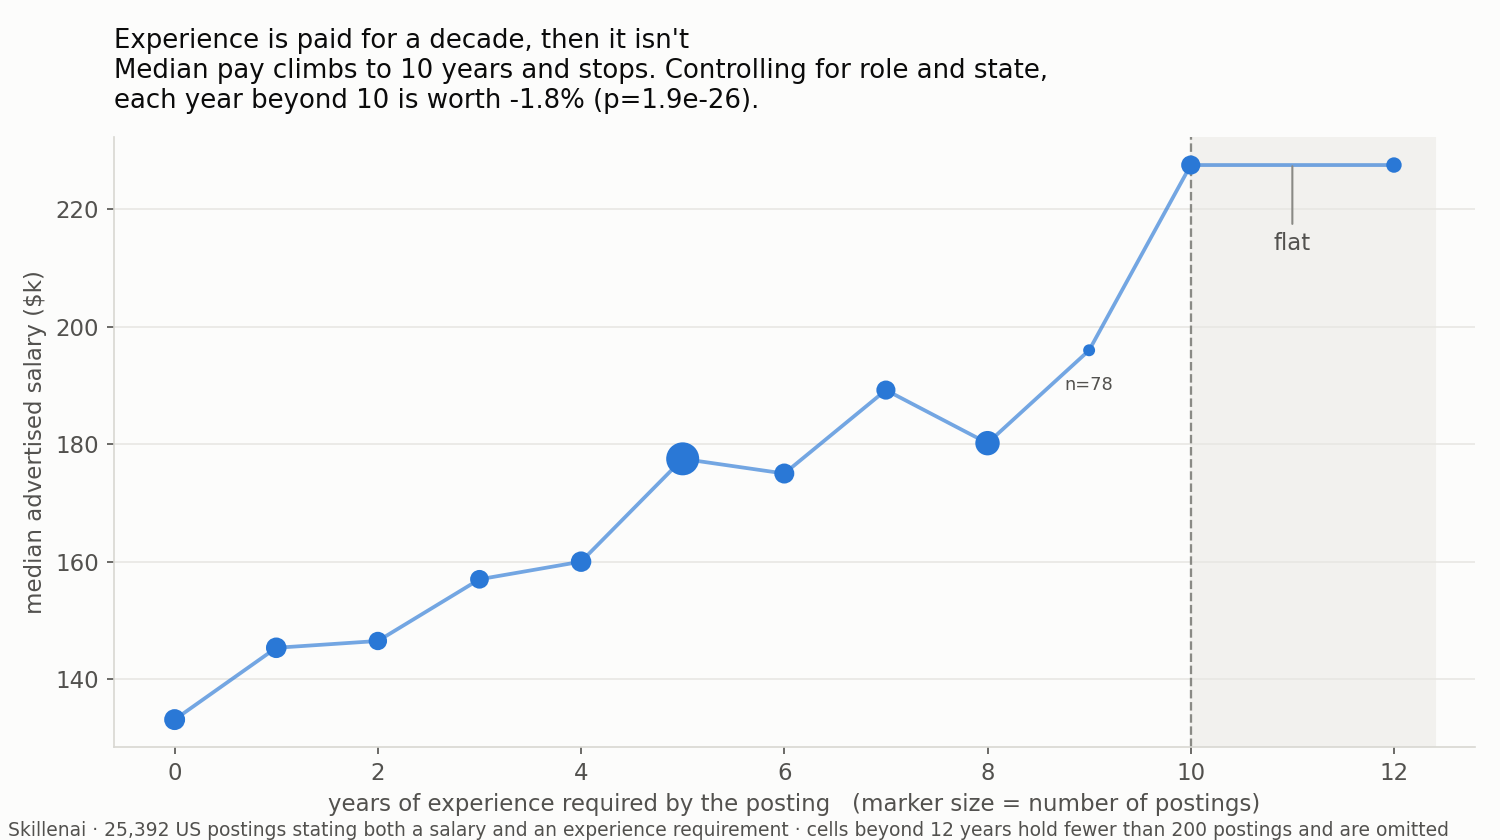
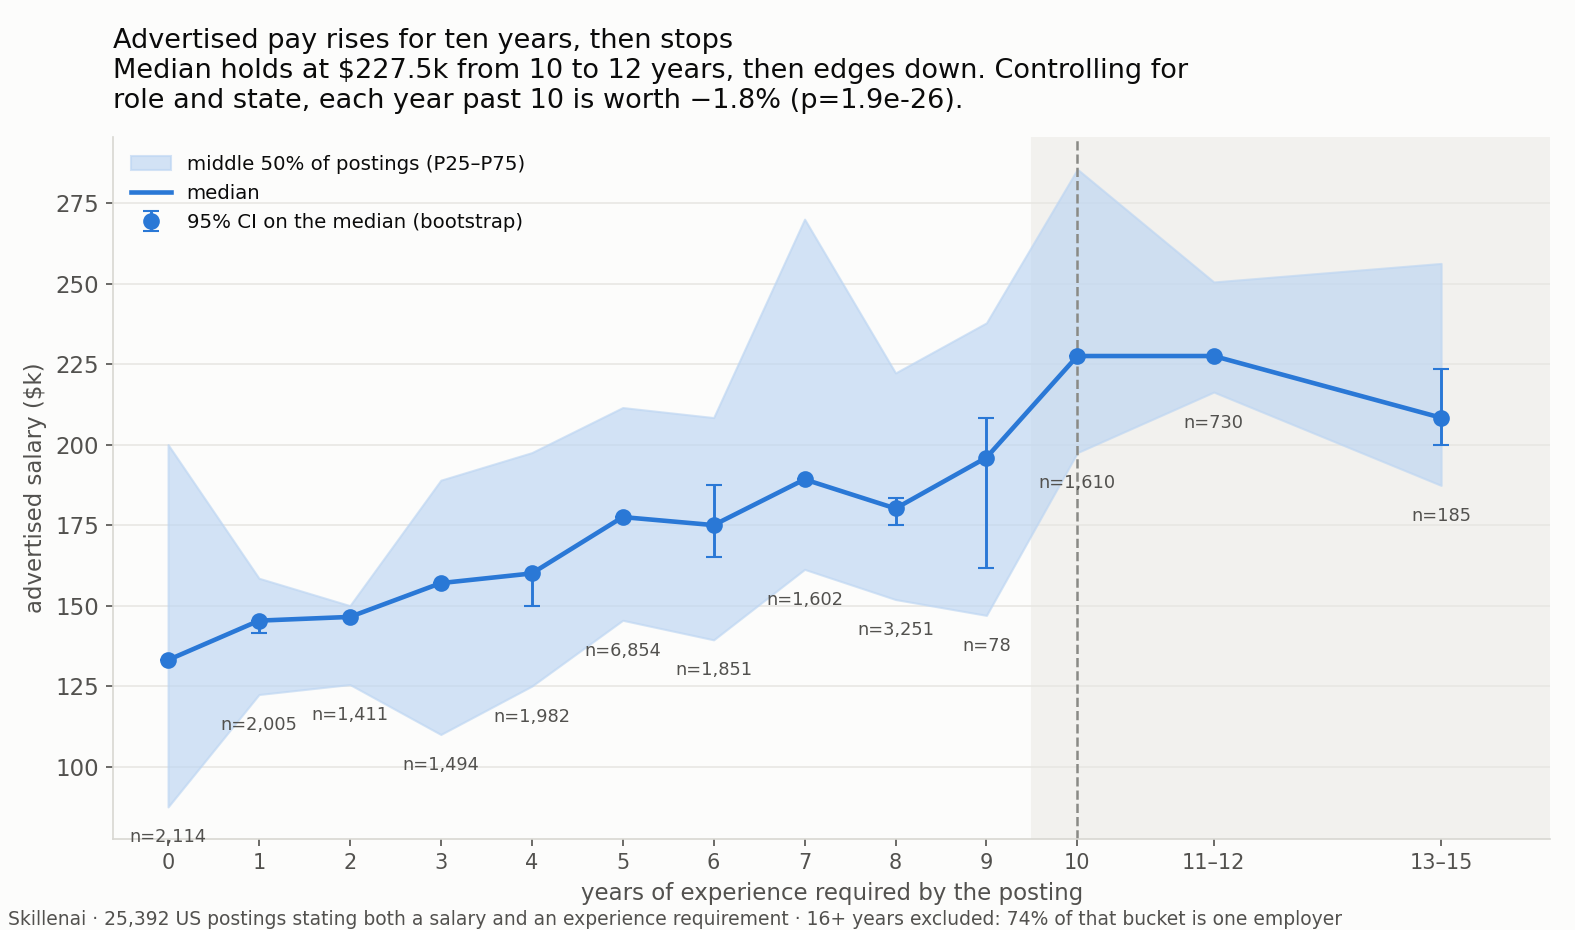
Salary chart: quartile bands, bootstrap CIs, bucketed tail
Shows the flat region past 10 years rather than asserting it. Excludes the
16+ bucket, which is 74% a single employer.

diff --git a/role-blur-skill-churn/README.md b/role-blur-skill-churn/README.md
@@ -85,9 +85,11 @@ Rank is the right unit here. It is computed within each period, so the shorter d
 
 ## 4. Experience is paid for a decade
 
-![Line chart of median advertised salary against required years of experience, rising steadily to ten years and then flat, with marker size showing sample size](04_pay_plateau.png)
+![Chart of advertised salary against required years of experience showing median, 95% bootstrap confidence intervals and the P25-P75 band, rising to ten years then flat](04_pay_plateau.png)
 
-Median advertised pay climbs to 10 years of required experience and stops. With role and state fixed effects, each year up to 10 is worth **+5.27%** (p≈0); each year beyond is worth **−1.75%** (p=1.9e-26). Under a conservative specification that also controls seniority — arguably over-controlling, since seniority is *how* experience gets paid — it is +2.40% then −0.14% (n.s.): flat either way.
+Median advertised pay climbs to 10 years of required experience and stops: **$227,500 at 10 years, $227,500 at 11-12 years**, then $208,340 at 13-15. Bands show the middle 50% of postings; error bars are bootstrap 95% CIs on the median.
+
+The **16+ bucket is excluded**: 74% of it (167 of 225 postings) is a single employer, which is a composition artifact rather than a market rate. With that employer removed the bucket holds 58 postings at a $208,340 median - directionally consistent, too thin to plot. With role and state fixed effects, each year up to 10 is worth **+5.27%** (p≈0); each year beyond is worth **−1.75%** (p=1.9e-26). Under a conservative specification that also controls seniority — arguably over-controlling, since seniority is *how* experience gets paid — it is +2.40% then −0.14% (n.s.): flat either way.
 
 Demand thins out fast:
 
